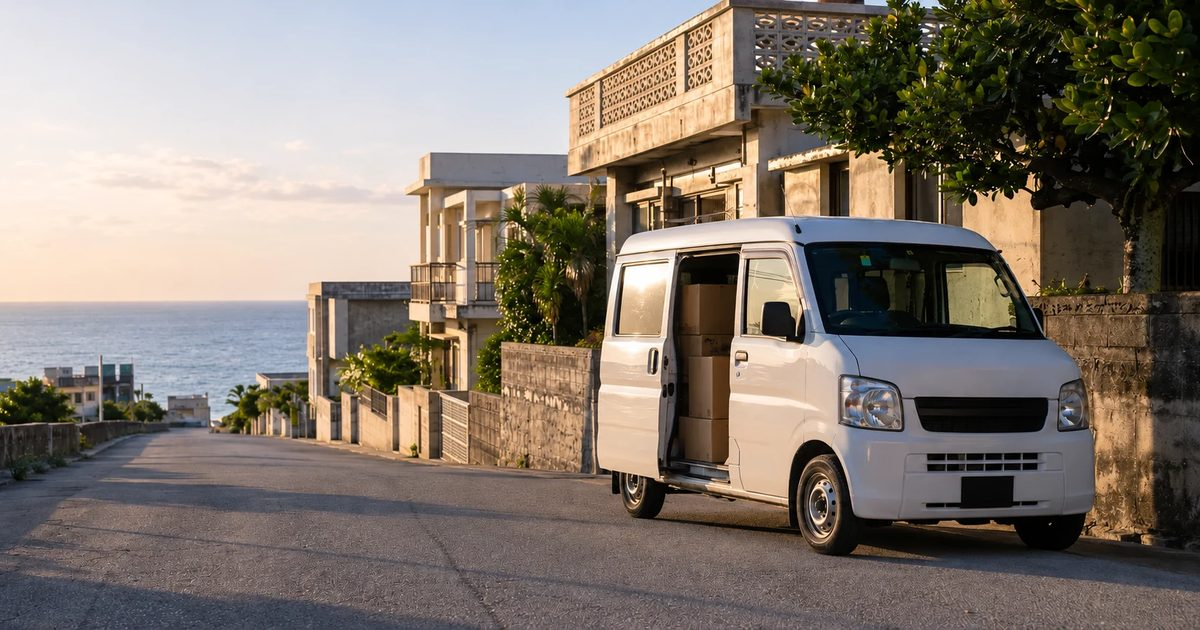
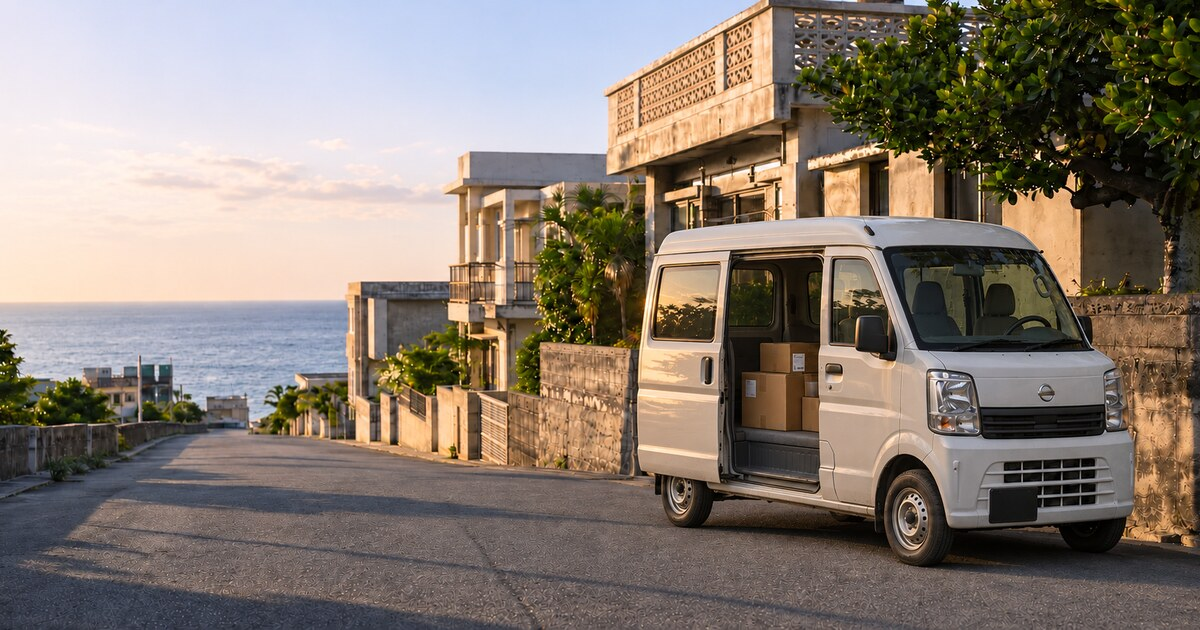
公開中のサイトの内容をリポジトリに反映
筆文字の「自由×責任×信頼」、新しいホーム写真と共有画像、ホームの募集カード、
募集ページの売上例の表記を、公開版と同じ内容にそろえました。

Claude-Session: https://claude.ai/code/session_01AVVoYTSEmbYrxVRJ5kSHQd

diff --git a/styles.css b/styles.css
@@ -544,6 +544,8 @@ h2 {
    Spare viewport height belongs to the hero; smaller screens scroll naturally. */
 .photo-home {
   --home-hero-min: 16rem;
+  --recruit-action: #176c99;
+  --recruit-action-hover: #125d86;
   display: flex;
   flex-direction: column;
   height: 100vh;
@@ -556,58 +558,84 @@ h2 {
 .photo-home .hero { flex: 1 0 var(--home-hero-min); height: auto; min-height: var(--home-hero-min); }
 .photo-home .hero::after { content: ""; position: absolute; z-index: 1; inset: 0; background: linear-gradient(180deg, transparent 40%, rgba(5, 31, 43, 0.62)); pointer-events: none; }
 .photo-home .hero-image { object-position: 58% 65%; }
-.photo-home .hero-inner { position: absolute; inset: 0; height: auto; padding-block: 88px var(--space-6); }
+.photo-home .hero-inner { position: absolute; inset: 0; height: auto; justify-content: flex-end; padding-block: 88px var(--space-6); }
 .photo-home .hero h1 {
-  display: flex;
-  align-items: center;
-  gap: 0.16em;
-  /* A restrained champagne tint lets a little of the photograph show through. */
-  color: rgba(233, 229, 218, 0.9);
-  font-family: inherit;
-  font-size: clamp(1.5rem, 2.8vw, 2.375rem);
-  font-weight: 500;
-  text-shadow: 0 1px 12px rgba(5, 31, 43, 0.35);
-  line-height: 1.3;
-  letter-spacing: 0.015em;
+  width: clamp(220px, 22vw, 280px);
+  max-width: 100%;
+  line-height: 1;
 }
-.photo-home .hero-title-separator {
-  color: inherit;
-  font-family: inherit;
-  font-size: 0.5em;
-  font-weight: 400;
-  letter-spacing: 0;
-  opacity: 0.64;
+.photo-home .hero-wordmark {
+  /* Recolor the approved artwork without changing its silhouette or alpha. */
+  width: 100%;
+  height: auto;
+  filter: grayscale(1) invert(1) sepia(0.14) brightness(1.08);
+}
+.photo-home .hero-title-text {
+  position: absolute;
+  width: 1px;
+  height: 1px;
+  margin: -1px;
+  padding: 0;
+  overflow: hidden;
+  clip-path: inset(50%);
+  white-space: nowrap;
 }
 .photo-home .intro { flex: 0 0 auto; padding-block: var(--space-5); }
-.photo-home .intro-stage { grid-template-columns: minmax(0, 1fr) clamp(200px, 20vw, 240px); }
-.photo-home .intro-panel { min-height: 13rem; padding: var(--space-6); }
-.photo-home .intro-content {
-  display: grid;
-  grid-template-columns: minmax(0, 1fr) auto;
-  gap: var(--space-6);
+.photo-home .intro-stage {
+  grid-template-columns: minmax(0, 1fr) minmax(15rem, 20rem) clamp(160px, 18vw, 200px);
+  grid-template-areas: "copy details photo" "copy action photo";
+  gap: var(--space-3) var(--space-6);
+  padding: var(--space-6);
   align-items: center;
-  max-width: none;
 }
-.photo-home .intro-copy { min-width: 0; }
-.photo-home .intro-label { margin-bottom: var(--space-1); color: var(--muted); }
-.photo-home .intro-lead { margin-bottom: var(--space-3); font-size: clamp(1.25rem, 2vw, 1.5rem); line-height: 1.45; }
-.photo-home .intro-benefits { display: flex; flex-wrap: wrap; gap: 0 var(--space-4); font-size: var(--font-body); font-weight: 500; line-height: 1.5; }
+.photo-home .intro-copy { grid-area: copy; min-width: 0; }
+.photo-home .intro-label { margin: 0 0 var(--space-1); color: var(--muted); font-size: var(--font-small); font-weight: 500; letter-spacing: 0.04em; }
+.photo-home .intro-title { font-size: clamp(1.25rem, 2.4vw, 1.5rem); line-height: 1.5; }
+.photo-home .intro-lead { display: flex; flex-wrap: wrap; gap: 0 var(--space-2); margin: var(--space-2) 0 0; font-size: var(--font-body); line-height: 1.5; }
+.photo-home .intro-lead > span, .photo-home .intro-lead > strong { display: inline-block; }
+.photo-home .intro-details { grid-area: details; min-width: 0; align-self: end; }
+.photo-home .intro-benefits { display: flex; flex-wrap: wrap; gap: var(--space-1) var(--space-5); font-size: var(--font-body); font-weight: 700; line-height: 1.5; }
 .photo-home .intro-benefits li { display: block; }
 .photo-home .intro-benefits li::before { content: none; }
-.photo-home .intro-campaign { display: flex; flex-wrap: wrap; gap: 0 var(--space-1); margin: var(--space-1) 0 0; color: var(--muted); font-size: var(--font-small); line-height: 1.5; }
-.photo-home .intro-recruit-button { width: 11rem; max-width: 100%; min-height: var(--tap-size); padding-block: var(--space-2); }
-.photo-home .intro-photo img { object-position: center 28%; }
+.photo-home .intro-campaign { display: flex; flex-wrap: wrap; gap: 0 var(--space-1); margin: var(--space-2) 0 0; color: var(--muted); font-size: var(--font-small); line-height: 1.5; }
+.photo-home .intro-recruit-button {
+  grid-area: action;
+  align-self: start;
+  width: 100%;
+  max-width: none;
+  min-height: var(--control-height);
+  padding: var(--space-3) var(--space-4);
+  background: var(--recruit-action);
+  color: var(--white);
+  border-color: var(--recruit-action);
+  font-size: var(--font-body);
+  font-weight: 700;
+}
+.photo-home .intro-recruit-button:active { background: var(--recruit-action-hover); border-color: var(--recruit-action-hover); }
+@media (hover: hover) and (pointer: fine) {
+  .photo-home .intro-recruit-button:hover { background: var(--recruit-action-hover); border-color: var(--recruit-action-hover); }
+}
+.photo-home .intro-photo { grid-area: photo; min-height: 152px; overflow: hidden; border-radius: var(--radius-control); }
+.photo-home .intro-photo img { object-position: center 35%; }
 
 @media (max-width: 760px) {
   .photo-home { --home-hero-min: 14rem; }
   .photo-home .hero-image { object-position: 66% center; }
   .photo-home .hero-inner { padding-block: 72px var(--space-5); }
-  .photo-home .hero h1 { font-size: clamp(1.375rem, 5.8vw, 1.75rem); }
+  .photo-home .hero h1 { width: clamp(156px, 44vw, 192px); }
   .photo-home .intro { padding-block: var(--space-4); }
-  .photo-home .intro-stage { width: calc(100% - var(--page-gutter) * 2); grid-template-columns: minmax(0, 1fr) 34%; border-radius: var(--radius-card); }
-  .photo-home .intro-panel { min-height: 0; padding: var(--space-4); }
-  .photo-home .intro-content { grid-template-columns: minmax(0, 1fr); gap: var(--space-4); }
-  .photo-home .intro-recruit-button { width: 100%; }
+  .photo-home .intro-stage {
+    width: calc(100% - var(--page-gutter) * 2);
+    grid-template-columns: minmax(0, 1fr) clamp(88px, 26vw, 108px);
+    grid-template-areas: "copy photo" "details details" "action action";
+    gap: var(--space-3) var(--space-4);
+    padding: var(--space-4);
+    border-radius: var(--radius-card);
+  }
+  .photo-home .intro-lead { display: block; }
+  .photo-home .intro-lead > span, .photo-home .intro-lead > strong { display: block; }
+  .photo-home .intro-photo { min-height: 0; aspect-ratio: 4 / 5; align-self: center; }
+  .photo-home .intro-photo figcaption { right: 0; bottom: 0; max-width: 100%; width: 100%; padding: 2px 0; border-radius: 0; font-size: 0.6875rem; text-align: center; }
 }
 
 @media (max-width: 340px) {

diff --git a/index.html b/index.html
@@ -90,8 +90,8 @@
       <section class="hero" id="top" aria-labelledby="hero-title">
         <img
           class="hero-image"
-          src="assets/maeshiro-hero-clear.webp"
-          srcset="assets/maeshiro-hero-clear-960.webp 960w, assets/maeshiro-hero-clear.webp 1827w"
+          src="assets/maeshiro-hero-natural.webp"
+          srcset="assets/maeshiro-hero-natural-960.webp 960w, assets/maeshiro-hero-natural.webp 1827w"
           sizes="100vw"
           fetchpriority="high"
           alt="沖縄の街を走る軽貨物車両のイメージ"
@@ -99,7 +99,10 @@
           height="861"
         />
         <div class="hero-inner">
-          <h1 id="hero-title" aria-label="自由 × 責任 × 信頼"><span>自由</span><span class="hero-title-separator" aria-hidden="true">×</span><span>責任</span><span class="hero-title-separator" aria-hidden="true">×</span><span>信頼</span></h1>
+          <h1 id="hero-title">
+            <span class="hero-title-text">自由 × 責任 × 信頼</span>
+            <img class="hero-wordmark" src="/assets/motto-samurai-kokin.webp" alt="" width="1280" height="222" fetchpriority="high" />
+          </h1>
         </div>
       </section>
 
@@ -113,22 +116,10 @@
 
       <section class="intro" aria-labelledby="intro-title">
         <div class="section-shell intro-stage">
-          <div class="intro-panel">
-            <div class="intro-content">
-              <div class="intro-copy">
-                <p class="intro-label">沖縄の軽貨物ドライバー募集</p>
-                <h2 class="intro-lead" id="intro-title">初めての配送に<br /><strong>ちゃんと安心を</strong></h2>
-                <ul class="intro-benefits" role="list" aria-label="ドライバー募集のキャンペーン">
-                  <li><span>車両無料貸出</span></li>
-                  <li><span>FC料固定</span></li>
-                </ul>
-                <p class="intro-campaign"><span class="intro-term">2027年3月末まで</span><span class="intro-term">キャンペーン中！</span></p>
-              </div>
-              <a
-                class="button outline intro-recruit-button"
-                href="/recruit/"
-              >求人ページを見る <svg class="icon" viewBox="0 0 24 24" aria-hidden="true" focusable="false"><path d="M5 12h14m-5-5 5 5-5 5" /></svg></a>
-            </div>
+          <div class="intro-copy">
+            <p class="intro-label">沖縄の軽貨物</p>
+            <h2 class="intro-title" id="intro-title">ドライバー募集</h2>
+            <p class="intro-lead"><span>初めての配送に</span><strong>ちゃんと安心を</strong></p>
           </div>
           <figure class="intro-photo">
             <img
@@ -140,6 +131,17 @@
             />
             <figcaption>イメージ写真</figcaption>
           </figure>
+          <div class="intro-details">
+            <ul class="intro-benefits" role="list" aria-label="ドライバー募集のキャンペーン">
+              <li><span>車両無料貸出</span></li>
+              <li><span>FC料固定</span></li>
+            </ul>
+            <p class="intro-campaign"><span class="intro-term">2027年3月末まで</span><span class="intro-term">キャンペーン中！</span></p>
+          </div>
+          <a
+            class="button intro-recruit-button"
+            href="/recruit/"
+          >求人ページを見る <svg class="icon" viewBox="0 0 24 24" aria-hidden="true" focusable="false"><path d="M5 12h14m-5-5 5 5-5 5" /></svg></a>
         </div>
       </section>
 

diff --git a/recruit/index.html b/recruit/index.html
@@ -243,17 +243,23 @@
                     <h4>車両無料貸出</h4>
                     <p class="jobs-income-days">月25日稼働</p>
                   </div>
-                  <p class="jobs-income-amount"><strong>42</strong><span>万円</span></p>
+                  <div class="jobs-income-total">
+                    <p class="jobs-income-amount"><strong>42</strong><span>万円</span></p>
+                    <p class="jobs-income-basis">経費控除前</p>
+                  </div>
                 </li>
                 <li>
                   <div class="jobs-income-summary">
                     <h4>車両持込</h4>
                     <p class="jobs-income-days">月20日稼働</p>
                   </div>
-                  <p class="jobs-income-amount"><strong>35</strong><span>万円</span></p>
+                  <div class="jobs-income-total">
+                    <p class="jobs-income-amount"><strong>35</strong><span>万円</span></p>
+                    <p class="jobs-income-basis">経費控除前</p>
+                  </div>
                 </li>
               </ul>
-              <p class="jobs-income-note" id="income-note">※経費控除前の月間売上の例です。収入を保証するものではなく、案件・配送件数・稼働日数や時間・エリアで変動します。税金・保険料・燃料費・備品代などが別途必要になる場合があります。</p>
+              <p class="jobs-income-note" id="income-note"><strong>※経費控除前の月間売上の例です。</strong>収入を保証するものではなく、案件・配送件数・稼働日数や時間・エリアで変動します。税金・保険料・燃料費・備品代などが別途必要になる場合があります。</p>
             </section>
             <details class="jobs-details">
               <summary>仕事内容・応募前の確認事項 <svg class="icon" viewBox="0 0 24 24" aria-hidden="true" focusable="false"><path d="m6 9 6 6 6-6" /></svg></summary>

diff --git a/recruit/recruit.css b/recruit/recruit.css
@@ -28,10 +28,13 @@
 .jobs-income-summary { min-width: 0; }
 .jobs-income-summary h4 { margin: 0 0 var(--space-1); color: var(--line-action-ink); font-size: var(--font-small); font-weight: 500; line-height: 1.5; }
 .jobs-income-days { margin: 0; color: var(--muted); font-size: var(--font-small); line-height: 1.5; }
-.jobs-income-amount { display: flex; align-items: baseline; gap: var(--space-1); margin: 0; color: var(--action-ink); line-height: 1; white-space: nowrap; font-variant-numeric: tabular-nums; }
+.jobs-income-total { min-width: 0; text-align: right; }
+.jobs-income-amount { display: flex; justify-content: flex-end; align-items: baseline; gap: var(--space-1); margin: 0; color: var(--action-ink); line-height: 1; white-space: nowrap; font-variant-numeric: tabular-nums; }
 .jobs-income-amount strong { font-size: clamp(2rem, 3vw, 2.25rem); font-weight: 600; }
 .jobs-income-amount span { font-size: var(--font-small); }
-.jobs-income-note { margin: var(--space-4) 0 0; padding-top: var(--space-3); color: var(--muted); border-top: 1px solid var(--line); font-size: var(--font-caption); line-height: 1.75; }
+.jobs-income-basis { margin: var(--space-1) 0 0; color: var(--muted); font-size: var(--font-small); line-height: 1.5; }
+.jobs-income-note { margin: var(--space-4) 0 0; padding-top: var(--space-3); color: var(--muted); border-top: 1px solid var(--line); font-size: var(--font-small); line-height: 1.75; }
+.jobs-income-note strong { color: var(--action-ink); font-weight: 700; }
 .jobs-details { border: 1px solid var(--line); border-radius: var(--radius-card); }
 .jobs-details > summary { min-height: var(--control-height); display: flex; align-items: center; justify-content: space-between; gap: var(--space-3); padding: var(--space-3) var(--space-4); color: var(--action-ink); font-size: var(--font-small); font-weight: 500; list-style: none; cursor: pointer; touch-action: manipulation; }
 .jobs-details > summary::-webkit-details-marker { display: none; }
